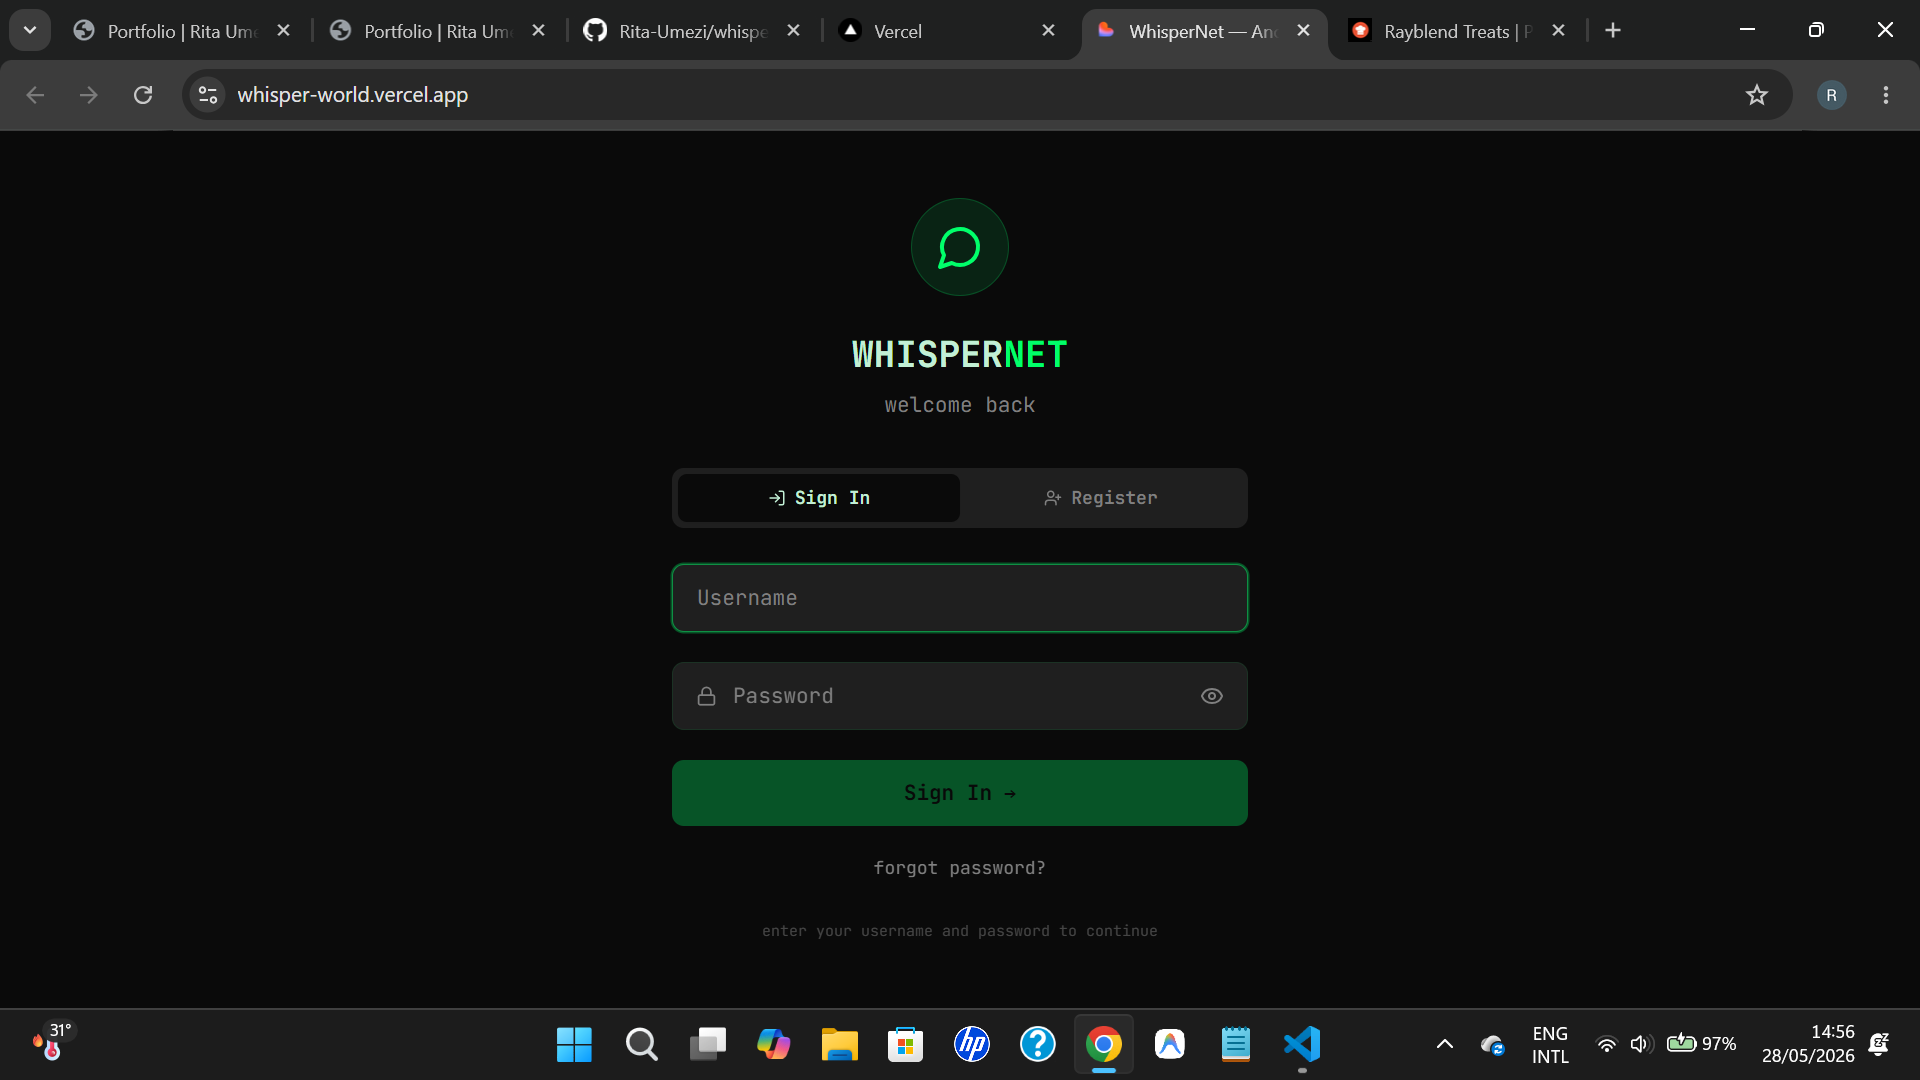
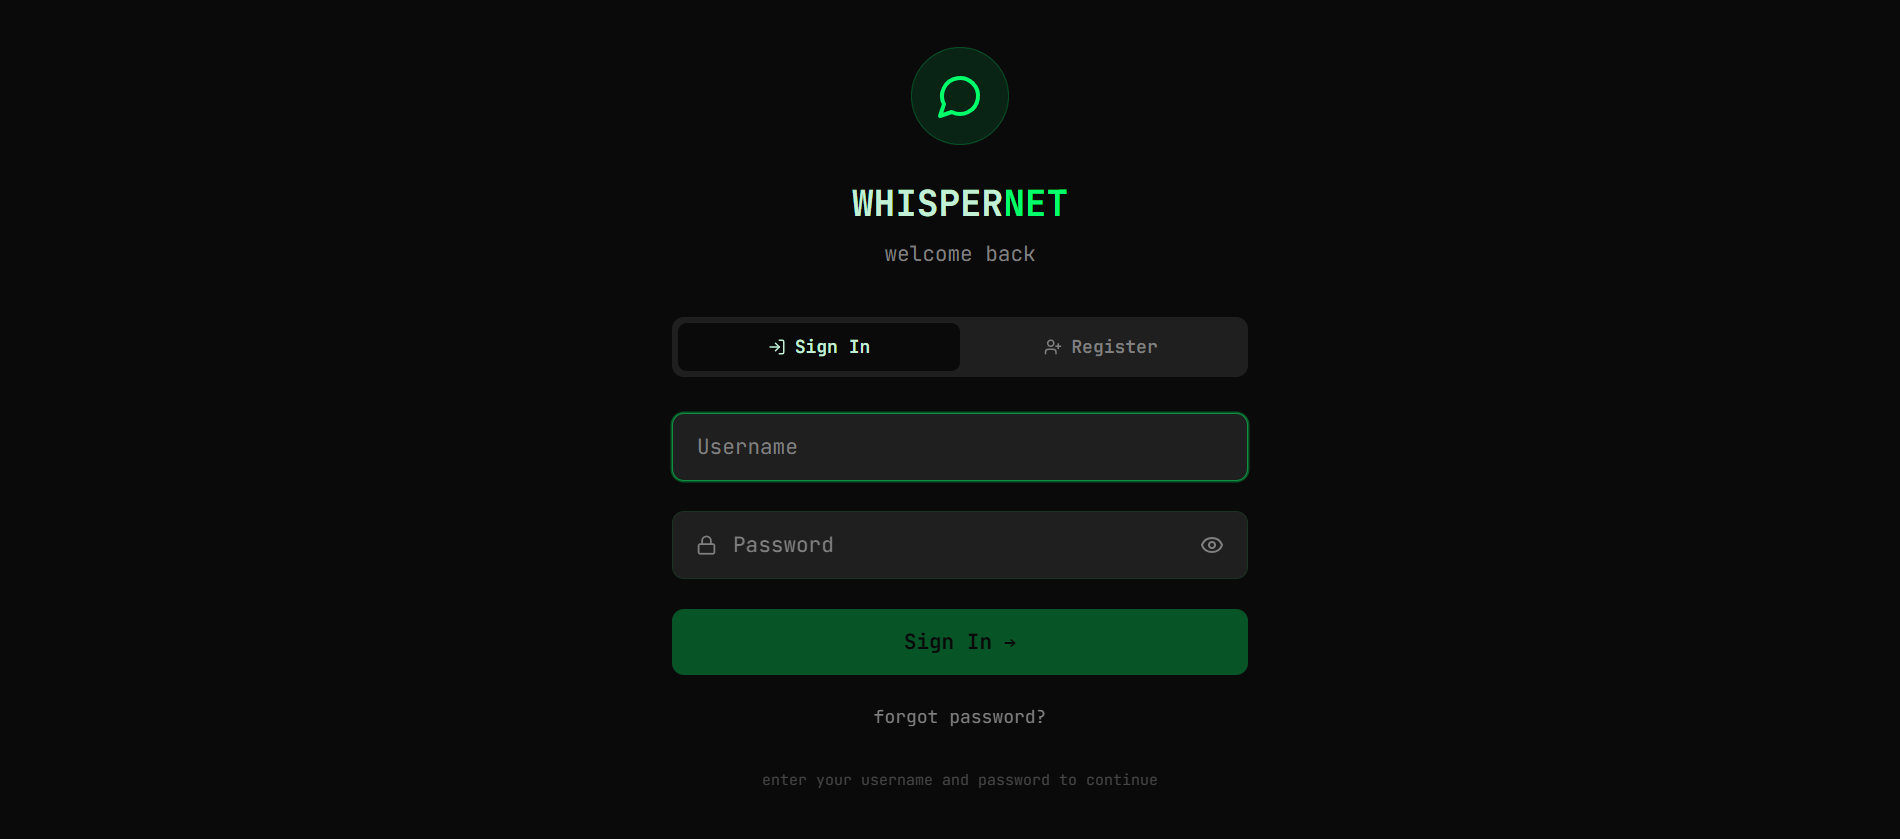
update project details and image for Whisper World

diff --git a/index.html b/index.html
@@ -190,25 +190,26 @@
 
             <div class="bg-[#161b22] rounded-2xl overflow-hidden border border-slate-800 hover:border-blue-500/50 transition-all group">
                 <div class="h-48 bg-slate-800 overflow-hidden">
-                    <img src="quiz website.png" alt="Quiz Website" class="w-full h-full object-cover group-hover:scale-105 transition-transform duration-500">
+                    <img src="whispernet.png" alt="Whisper World" class="w-full h-full object-cover group-hover:scale-105 transition-transform duration-500">
                 </div>
                 <div class="p-6">
                     <div class="flex flex-wrap gap-2 mb-4">
-                        <span class="px-3 py-1 bg-slate-900 border border-slate-700 rounded-full text-xs text-slate-300">
-                            <i class="fab fa-html5 text-orange-500"></i> HTML</span>
-                        <span class="px-3 py-1 bg-slate-900 border border-slate-700 rounded-full text-xs text-slate-300">
-                            <i class="fab fa-css3-alt text-blue-500"></i>CSS</span>
-                        <span class="px-3 py-1 bg-slate-900 border border-slate-700 rounded-full text-xs text-slate-300">
-                             <i class="fab fa-js text-yellow-400 text-xs"></i>
-                             JS</span>
+                        <span class="px-3 py-1 bg-slate-900 border border-slate-700 rounded-full text-xs text-slate-300 flex items-center gap-1">
+                            <img src="https://cdn.simpleicons.org/typescript/3178C6" alt="TypeScript" class="w-3 h-3 inline-block" />
+                            TypeScript
+                        </span>
+                        <span class="px-3 py-1 bg-slate-900 border border-slate-700 rounded-full text-xs text-slate-300 flex items-center gap-1">
+                            <img src="https://cdn.simpleicons.org/tailwindcss/38B2AC" alt="Tailwind" class="w-3 h-3 inline-block" />
+                            Tailwind
+                        </span>
                     </div>
-                    <h3 class="text-xl font-bold mb-2">Quiz Website</h3>
-                    <p class="text-slate-400 text-sm mb-6 leading-relaxed">Comprehensive platform supporting multiple categories and user tracking.</p>
+                    <h3 class="text-xl font-bold mb-2">Whisper World</h3>
+                    <p class="text-slate-400 text-sm mb-6 leading-relaxed">A polished anonymous messaging app for sharing thoughts, discovering whispers, and connecting through a clean responsive interface.</p>
                     <div class="flex gap-4 text-sm font-medium">
-                        <a href="https://quiz-website-drab.vercel.app/" class="hover:text-blue-400 transition flex items-center gap-1">
+                        <a href="https://whisper-world.vercel.app/" class="hover:text-blue-400 transition flex items-center gap-1">
                             <i class="fas fa-external-link-alt text-xs"></i> Live Demo
                         </a>
-                         <a href="https://github.com/Rita-Umezi/Quiz-website" class="hover:text-blue-400 transition flex items-center gap-1">
+                         <a href="https://github.com/Rita-Umezi/whisper-world" class="hover:text-blue-400 transition flex items-center gap-1">
                             <i class="fab fa-github text-xs"></i> Github
                         </a>
                     </div>